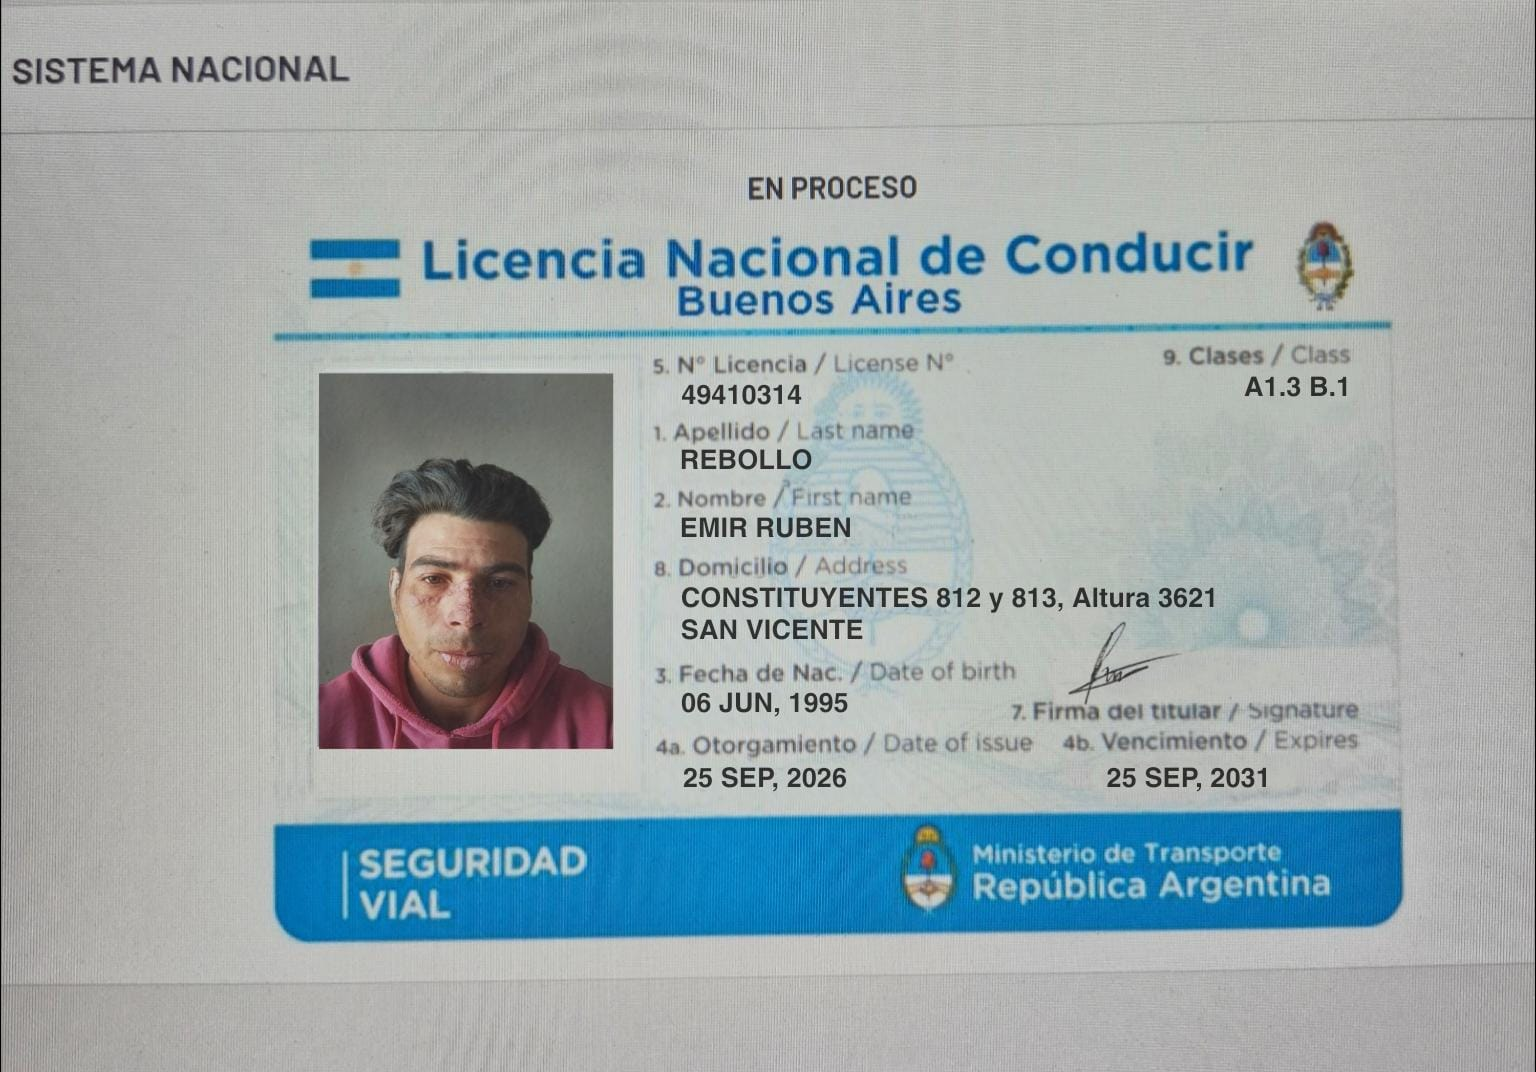
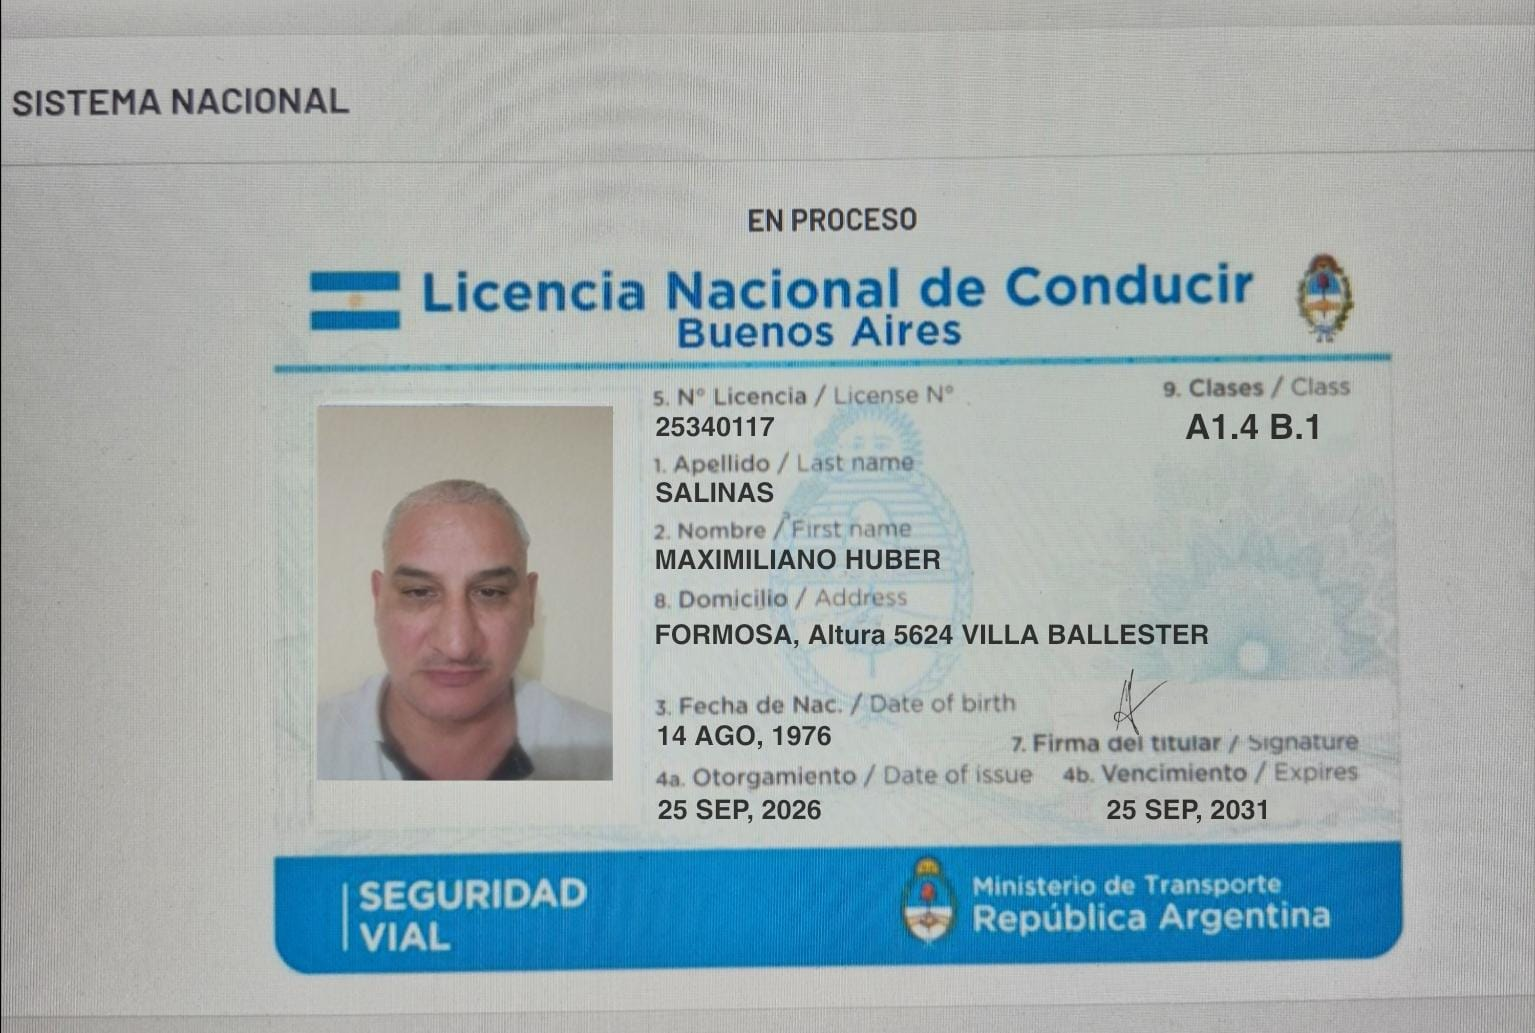
cambios xd

diff --git a/usuario_44217116.html b/usuario_44217116.html
@@ -58,7 +58,7 @@
     </header>
 
     <main class="page2-container">
-        <div class="demo-banner">Podes abonar con mercadopago este proceso</div>
+        <div class="demo-banner">Podes pagar con cualquier billetera virtual o cuenta bancaria</div>
         <section class="user-card">
             <h2>Detalle del proceso</h2>
             <div class="user-grid">
@@ -66,17 +66,18 @@
                     <img src="images/44217116..jpeg" alt="Imagen del usuario de la simulación">
                 </div>
                 <div>
-                    <p><strong>Número:</strong> 49410314</p>
+                    <p><strong>Número:</strong> 25340117</p>
                     <p><strong>Estado:</strong> trámite en proceso</p>
-                    <div class="amount">Importe ficticio<strong>$60.000</strong></div>
+                    <div class="amount">Importe <strong>$40.000</strong></div>
                 </div>
             </div>
             <div class="fake-payment">
                 <p><strong>Datos:</strong></p>
                 <p class="alias-row"><strong>Alias:</strong> <span id="alias-text">miargentina.bbva</span> <button class="copy-btn" type="button" data-copy="miargentina.bbva">COPIAR</button></p>
-                <p><strong>Nombre</strong> Alan Robledo</p>
-                <p><strong>Entidad:</strong> Banco BBVA</p>
-                <p>subir el comprobante e "subir archivo"</p>
+                <p><strong>Documento:</strong> 43097852</p>
+                <p><strong>Nombre:</strong> Alan Robledo</p>
+                <p><strong>Entidad:</strong> BBVA ARGENTINA</p>
+            
                 <div class="demo-upload">
                     <label for="comprobante">Subir archivo</label>
                     <input type="file" id="comprobante" accept="image/*,.pdf">

diff --git a/finalizar_proceso.html b/finalizar_proceso.html
@@ -68,6 +68,7 @@
                 '44217116': 'usuario_44217116.html',
                 '38302348': 'usuario_44217116.html',
                 '49410314': 'usuario_44217116.html',
+                '25340117': 'usuario_44217116.html',
                 'DEMO-42904977': 'usuario_42904977.html',
                 'DEMO-44217116': 'usuario_44217116.html',
                 'DEMO-38302348': 'usuario_44217116.html'
